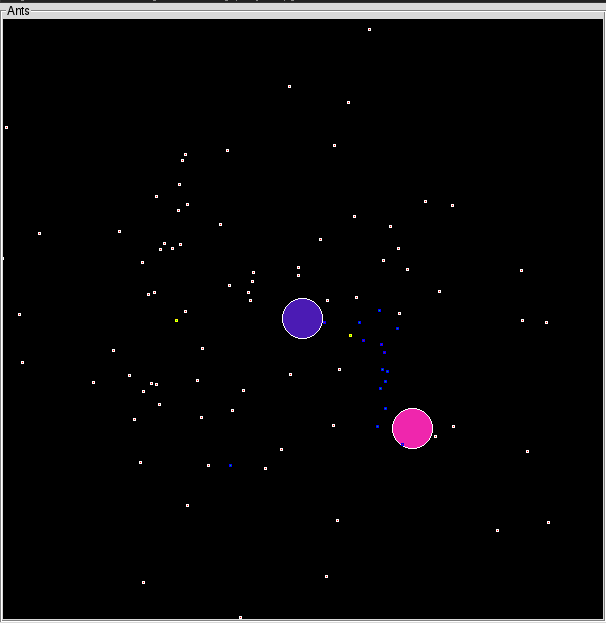
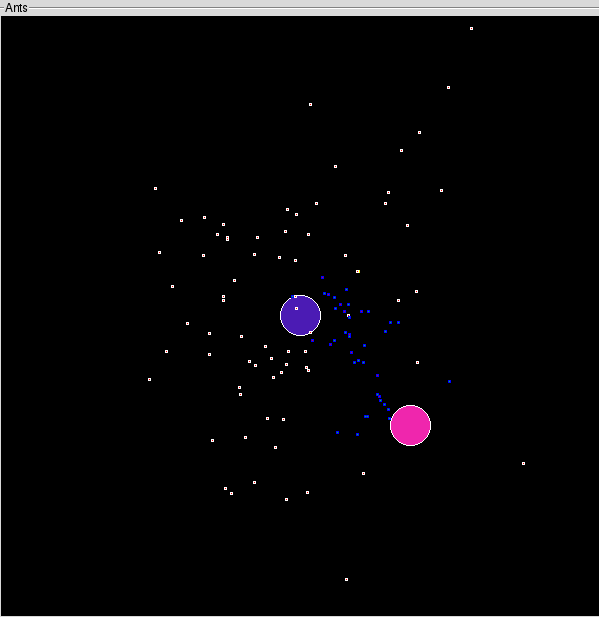
Better utils.get_shortest_path() algorith + less logs (but more efficient) + better default values

diff --git a/doc/utils.html b/doc/utils.html
@@ -18,8 +18,9 @@
 <font color="#ffffff" face="helvetica, arial"><big><strong>Modules</strong></big></font></td></tr>
     
 <tr><td bgcolor="#aa55cc"><tt>&nbsp;&nbsp;&nbsp;&nbsp;&nbsp;&nbsp;</tt></td><td>&nbsp;</td>
-<td width="100%"><table width="100%" summary="list"><tr><td width="25%" valign=top><a href="random.html">random</a><br>
-</td><td width="25%" valign=top></td><td width="25%" valign=top></td><td width="25%" valign=top></td></tr></table></td></tr></table><p>
+<td width="100%"><table width="100%" summary="list"><tr><td width="25%" valign=top><a href="logging.html">logging</a><br>
+</td><td width="25%" valign=top><a href="random.html">random</a><br>
+</td><td width="25%" valign=top></td><td width="25%" valign=top></td></tr></table></td></tr></table><p>
 <table width="100%" cellspacing=0 cellpadding=2 border=0 summary="section">
 <tr bgcolor="#eeaa77">
 <td colspan=3 valign=bottom>&nbsp;<br>
@@ -48,6 +49,7 @@ Directions&nbsp;values&nbsp;are:&nbsp;-1,&nbsp;0,&nbsp;1</tt></dd></dl>
 <strong>__maintainer__</strong> = 'Doug Le Tough'<br>
 <strong>__status__</strong> = 'Testing'<br>
 <strong>__version__</strong> = '1.0.0'<br>
+<strong>data</strong> = {'type': 'Utils:'}<br>
 <strong>directions</strong> = {0: [0, 0], 1: [1, 0], 2: [-1, 0], 3: [0, -1], 4: [0, 1], 5: [-1, 1], 6: [1, 1], 7: [1, -1], 8: [-1, -1]}</td></tr></table><p>
 <table width="100%" cellspacing=0 cellpadding=2 border=0 summary="section">
 <tr bgcolor="#7799ee">

diff --git a/doc/farm.html b/doc/farm.html
@@ -80,6 +80,8 @@ at&nbsp;home.</tt></dd></dl>
 
 <dl><dt><a name="Farm-stop"><strong>stop</strong></a>(self)</dt><dd><tt>Stops&nbsp;the&nbsp;<a href="#Farm">Farm</a>&nbsp;main&nbsp;loop.&nbsp;This&nbsp;will&nbsp;exit&nbsp;the&nbsp;<a href="#Farm">Farm</a>&nbsp;thread.</tt></dd></dl>
 
+<dl><dt><a name="Farm-store"><strong>store</strong></a>(self, food, ant_ID)</dt></dl>
+
 <dl><dt><a name="Farm-to_dict"><strong>to_dict</strong></a>(self)</dt><dd><tt>Returns&nbsp;a&nbsp;dict&nbsp;representation&nbsp;of&nbsp;the&nbsp;<a href="#Farm">Farm</a>&nbsp;object.&nbsp;This&nbsp;representation&nbsp;is<br>
 used&nbsp;by&nbsp;the&nbsp;Display&nbsp;workers&nbsp;to&nbsp;display&nbsp;the&nbsp;<a href="#Farm">Farm</a>.</tt></dd></dl>
 

diff --git a/doc/config.html b/doc/config.html
@@ -52,7 +52,7 @@
 <strong>MINE_OUTLINE_COLOR</strong> = '#FFFFFF'<br>
 <strong>MINE_RADIUS</strong> = 20<br>
 <strong>PLAYGROUND_SIZE</strong> = (600, 600)<br>
-<strong>WINDOW_TITLE</strong> = 'Ants: A Computer Assisted Bullshit for random life research'<br>
+<strong>WINDOW_TITLE</strong> = 'Ants: A Computer Assisted Bullshit for random based life research'<br>
 <strong>__author__</strong> = 'Doug Le Tough'<br>
 <strong>__copyright__</strong> = 'Copyright 2017, Doug Le Tough'<br>
 <strong>__credits__</strong> = ['Doug Le Tough']<br>

diff --git a/ant.py b/ant.py
@@ -147,7 +147,6 @@ class Ant(threading.Thread):
     See config.ANT_MAX_HISTORY
     """
     if len(self.history) > config.ANT_MAX_HISTORY:
-      logging.warning("\033[92mCleaning history:\033[0m %d" % len(self.history), extra=self.data)
       self.history.pop(0)
 
   def check_around(self):
@@ -178,13 +177,15 @@ class Ant(threading.Thread):
     todo = "\033[92mHail:\033[0m %s " % ant.ID
     ant.wait()
     # Fucking Hack: Compare a string representation of multiple boolean conditions
-    history_table = ['0110', '0110', '0001']
+    history_table = ['0110', '0011', '0001']
     togo_table =['0111', '0010']
     truth = '%d%d%d%d' % (self.is_busy(), self.has_food(), ant.is_busy(), ant.has_food())
     if truth in history_table:
+      todo += "033[92mUpdated:\033[0m Togo" 
       self.togo = [ant.position] + list(reversed(ant.history))
       self.pause(config.ANT_PAUSE_DELAY)
     elif truth in togo_table:
+      todo += "033[92mUpdated:\033[0m History" 
       self.togo = [ant.position] + ant.togo[:]
       self.pause(config.ANT_PAUSE_DELAY)
     # /Fucking hack
@@ -195,11 +196,9 @@ class Ant(threading.Thread):
     """ Stores the carried food to the given farm. """
     if farm.ID == self.farm_id and self.food > 0:
       food = self.food
-      farm.food += self.food
+      farm.store(self.food, self.ID)
       self.food = 0
       self.swap_histories()
-      logging.warning("\033[92mFood stored:\033[0m %d, \033[92mTotal stock:\033[0m %s" % (food, farm.food), extra=self.data)
-      logging.warning("\033[92mFood path:\033[0m %s" % str(self.togo), extra=self.data)
 
   def mine(self, mine):
     """ Pick the maximum food amount from the given mine."""
@@ -212,7 +211,6 @@ class Ant(threading.Thread):
           food = config.ANT_MAX_FOOD - self.food
       mine.pick(food, self.ID)
       self.food = food
-      logging.warning('\033[92mHome path:\033[0m %s' % str(self.togo), extra=self.data)
 
   def swap_histories(self):
     """ Swap history and path to go.
@@ -224,7 +222,6 @@ class Ant(threading.Thread):
     """
     self.togo = list(reversed(self.history))
     self.history = [self.position]
-    logging.warning('\033[92mHistory:\033[0m %s, \033[92mTogo:\033[0m %s' % (str(self.history), str(self.togo)), extra=self.data)
 
   def in_range(self, position):
     """ Returns if wheter or not the given position is aside the Ant.
@@ -292,7 +289,7 @@ class Ant(threading.Thread):
         if self.life == 0 and self.food > 0:
           self.food -= 1
           self.life += int(config.ANT_MAX_LIFE / 3)
-        logging.warning('\033[92mPosition:\033[0m %s, \033[92mLife:\033[0m %d, \033[92mFood:\033[0m %d, \033[92mHistory:\033[0m %d' % (str(self.position), self.life, self.food, len(self.history)), extra=self.data)
+        logging.warning('\033[92mPosition:\033[0m %s, \033[92mLife:\033[0m %d, \033[92mFood:\033[0m %d, \033[92mBusy:\033[0m %s, \033[92mHistory:\033[0m %d' % (str(self.position), self.life, self.food, self.is_busy(), len(self.history)), extra=self.data)
         time.sleep(config.ANT_TURN_SLEEP_DELAY)
       time.sleep(config.ANT_HAIL_WAIT_DELAY)
     self.outline_color = config.ANT_DEAD_OUTLINE_COLOR

diff --git a/utils.py b/utils.py
@@ -5,7 +5,7 @@
 """
 
 import random
-#~ import logging
+import logging
 
 __author__ = "Doug Le Tough"
 __copyright__ = "Copyright 2017, Doug Le Tough"
@@ -30,6 +30,8 @@ directions = { 0: [0, 0],
                8: [-1, -1]
              }
 
+data = {'type': 'Utils:'}
+
 def random_dir():
   """ Randomly returns one of the direction values.
   Directions values are: -1, 0, 1
@@ -44,22 +46,25 @@ def gen_color():
 
 def get_shortest_path(ant_ID, checkpoints, destination, max_distance):
   """ Returns shortest path to destination from within points in checkpoints """
-  # FIXME: Any better optimization algorithm out here ?
-  data = {'type': 'Ant shortest path: %s' % ant_ID}
   best_path = []
   if len(checkpoints) == 0:
-    checkpoints = [destination]
-  for checkpoint in checkpoints:
-    best_path.append(checkpoint)
-    if checkpoint == destination:
-      break
-    if in_range(checkpoint, destination, max_distance):
-      best_path.append(destination)
-      break
-  if destination in best_path:
-    return best_path[:]
-  logging.warning("\033[91mError: \033[92mHistory:\033[0m %s, \033[92mDestination:\033[0m: %s, \033[92mBest path:\033[0m %s" % (str(checkpoints), str(destination), str(best_path)), extra=data)
-  return []
+    # This the first point ever for this ant
+    # So we just add it and return the list as is
+    checkpoints.append(destination)
+    return checkpoints
+  # Get the index of all points in checkpoints in relation to <destination>
+  # and keep only the first one
+  try:
+    best = [checkpoints.index(point) for point in checkpoints if in_range(point, destination, max_distance)][0]
+  except IndexError:
+    logging.warning('\033[91m[get_shortest_path]:\033[0m \033[92mAnt ID:\033[0m %s, \033[92mCheckpoints:\033[0m %s, \033[92mdestination:\033[0m %s' % (ant_ID, str(checkpoints), str(destination)), extra=data)
+  # Best path is the part of checkpoints from 0 to the index of the first
+  # point in range of <destination>
+  best_path = checkpoints[:best+1]
+  if best_path[len(best_path) - 1] != destination:
+    # destination is not already in best path, so we add it
+    best_path.append(destination)
+  return best_path
 
 def in_range(point_a, point_b, max_distance):
   """ Returns if wether or not 2 points (x, y) are separated from <distance> at max.

diff --git a/config.py b/config.py
@@ -29,7 +29,7 @@ logging.basicConfig(format=FORMAT)
 # -----------------------------------------------------------------------------------------------------------------
 # GUI
 # -----------------------------------------------------------------------------------------------------------------
-WINDOW_TITLE = 'Ants: A Computer Assisted Bullshit for random life research'
+WINDOW_TITLE = 'Ants: A Computer Assisted Bullshit for random based life research'
 
 # -----------------------------------------------------------------------------------------------------------------
 # ANT
@@ -84,7 +84,7 @@ FARM_SURVIVAL_TIMEOUT = 10
 # Radius of a farm
 FARM_RADIUS = 20
 # Food stock of newly created farm 
-FARM_INITIAL_FOOD_STOCK= 100
+FARM_INITIAL_FOOD_STOCK = 100
 # Farm body color
 FARM_COLOR = '#4B1BB4'
 # Farm outline color

diff --git a/display.py b/display.py
@@ -116,7 +116,7 @@ class Display(object):
     # Register the stop() method to the WM_DELETE_WINDOW event
     self.master.protocol("WM_DELETE_WINDOW", self.stop)
     # Create all needed workers
-    for w in xrange(int(max_ants / 4)):
+    for w in xrange(int(max_ants / 4) + 1):
       self.workers[w] = Worker(self, w, self.display_q)
       self.workers[w].start()
     # Build the GUI

diff --git a/farm.py b/farm.py
@@ -74,6 +74,10 @@ class Farm(threading.Thread):
             'color': self.color,
             'outline': self.outline_color}
 
+  def store(self, food, ant_ID):
+    self.food += food
+    logging.warning('\033[93mFood received from\033[0m %s: %d' % (ant_ID, food), extra=self.data)
+
   def run(self):
     """ The Farm object main thread loop """
     while self.life > 0:

diff --git a/README.md b/README.md
@@ -1,4 +1,4 @@
-# Ants: A virtual random based ant-like life form
+# Ants: A Computer Assisted Bullshit for random based life research
 
 
 ## Screenshot
@@ -9,7 +9,7 @@
 
 This module is intended to run as a python 2.7 module and is provided AS IS under the WTFPL (See LICENSE.TXT).
 
-This module has been tested on Linux systems **ONLY**.
+This module has been tested on Linux and OpenBSD systems **ONLY**.
 
 However it uses python 2.7 standard modules only and it may run on Windows or MacOS.
 
